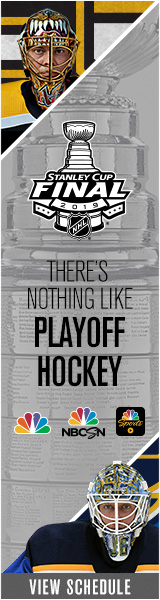
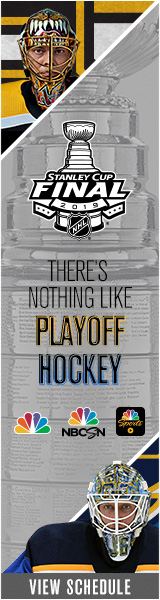
160x600

Changed region(s): [[0.1562, 0.42, 0.8125, 0.66]]

diff --git a/FINALS/html_css/160x600/160x600.html b/FINALS/html_css/160x600/160x600.html
@@ -26,8 +26,8 @@
         <div id="logo_nbcsn" class="networks"></div>
         <div id="logo_app" class="networks"></div>
 
-        <div id="begin"></div>
-
+<!--         <div id="begin"></div>
+ -->
         <div id="scp"></div> 
 
         <div id="image1"></div>
@@ -85,14 +85,14 @@
           .from($tagline2, 0.30, {opacity:0, scale:2, ease: Power1.easeOut}, "frame1+0.6")   
           .from($tagline2outline, 2, {autoAlpha:0, ease: RoughEase.ease.config({ template:  Power0.easeNone, strength: 1.8, points: 20, taper: "none", randomize: true, clamp: false})}, "frame1+=0.8")
 
-          .to($tagline2, 0.25, {opacity:0, y:25}, "frame1+=3")
-          .to($tagline2outline, 0.25, {opacity:0, y:25}, "frame1+=3")
+          .to($tagline2, 0.4, {scale:.8, y:15, ease: Power1.easeOut}, "frame1+=3")
+          .to($tagline2outline, 0.4, {scale:.8, y:15, ease: Power1.easeOut}, "frame1+=3")
 
           .add("endframe", "+=.2")
-          .to($taglinetop, 0.25, {opacity:0}, "endframe+=-.5")
+          .to($taglinetop, 0.4, {scale:.8, y:35, ease: Power1.easeOut}, "frame1+=3")
           .from($image1, 0.35, {yPercent:-100, ease: Power1.easeOut}, "endframe")
           .from($image, 0.35, {yPercent:100, ease: Power1.easeOut}, "endframe")
-          .from($scp, 0.35, {y:-25, opacity:0}, "endframe")
+          .from($scp, 0.4, {y:-35, opacity:0, ease: Power1.easeOut}, "endframe+=-.5")
           .from($begin, 0.35, {opacity:0}, "+=0.5")
           .staggerFrom($networks, 0.35, {opacity:0}, 0.2, "+=0.35")
           .from($cta, 0.25, {yPercent:100, ease: Power1.easeOut}, "+=0.2")
